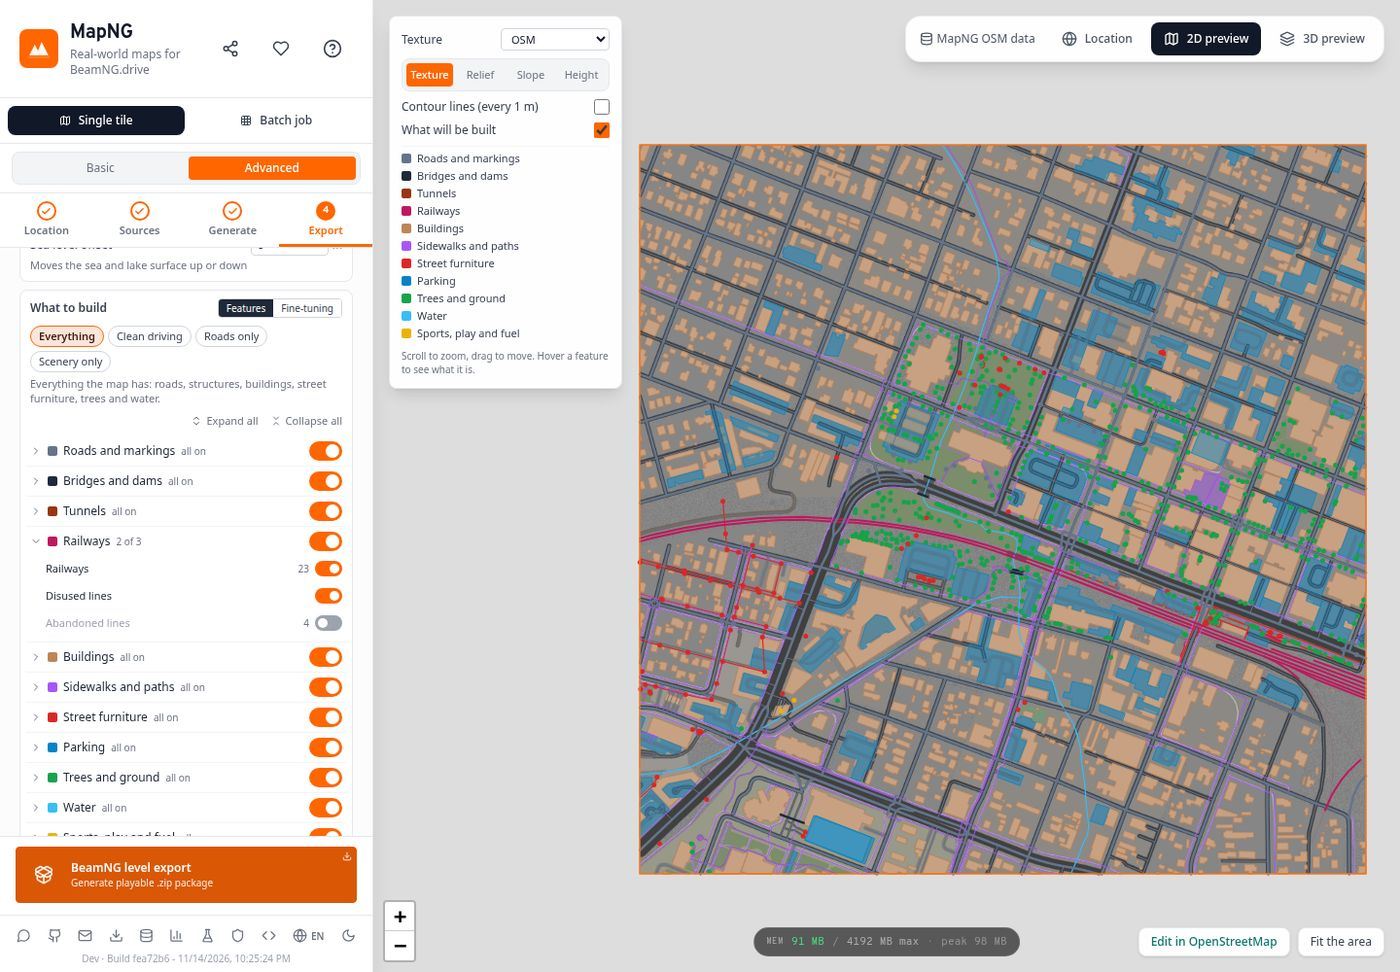
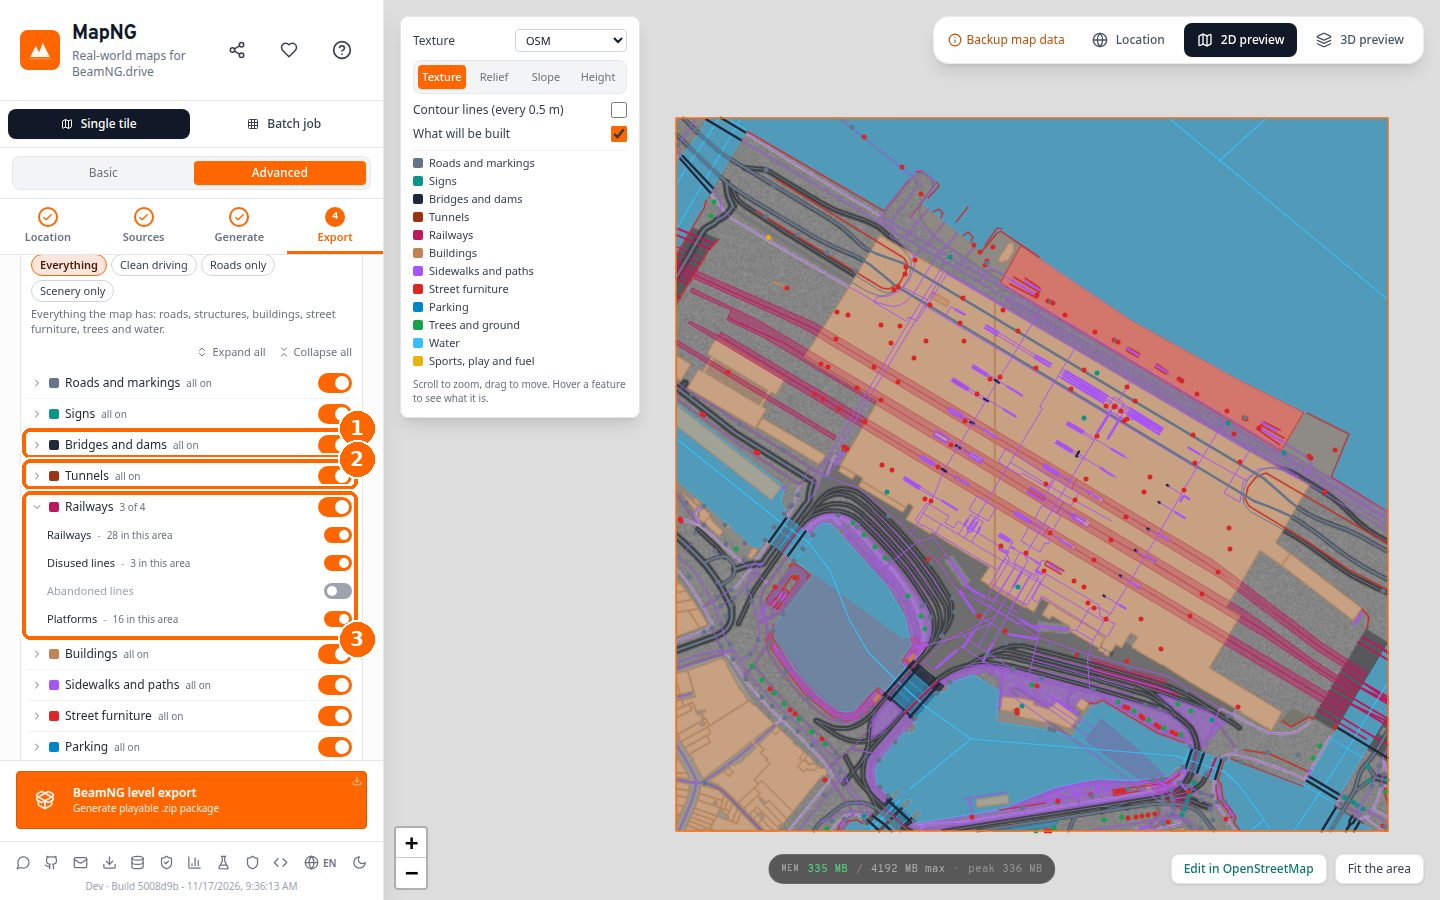
0.3.3: version, and the update page's screenshots retaken with numbered callouts

diff --git a/public/updates/0.3.3/index.html b/public/updates/0.3.3/index.html
@@ -181,7 +181,8 @@
     <div class="kicker">The map</div>
     <h2>MapNG draws its own street map</h2>
     <p>The street map behind the selection box is now MapNG's own: OpenStreetMap data, kept in MapNG's storage and drawn in your browser. It replaces both the OpenStreetMap tile layer and the old dark map, so the map no longer leans on OpenStreetMap's public tile servers, which are not meant for an app this busy.</p>
-    <figure><img src="images/street-map.jpg" alt="The MapNG window twice, in light and in dark mode, each showing a street map of London around Tower Bridge with the Map layers box open" loading="lazy"><figcaption>The street map in light and in dark mode. With no style chosen it follows the app.</figcaption></figure>
+    <figure><img src="images/street-map.jpg" alt="The MapNG window with a street map of London around Tower Bridge and the Map layers box open. Two numbered outlines: 1 the Street map layer, 2 a row of five style switches under it" loading="lazy"><figcaption><b>1</b> The street map is the first layer. <b>2</b> Its five styles; with none chosen it follows the app's light or dark mode.</figcaption></figure>
+    <figure><img src="images/street-map-dark.jpg" alt="The same window in dark mode, with the map in its dark style" loading="lazy"><figcaption>In dark mode.</figcaption></figure>
     <p>It comes in five styles, as switches under the layer: light, dark, white, greyscale and black. If you had the OpenStreetMap layer or the dark map selected, MapNG moves you to the street map (in its dark style, for the dark map).</p>
     <figure><img src="images/street-styles.jpg" alt="Three views of the same map in the white, greyscale and black styles" loading="lazy"><figcaption>The white, greyscale and black styles.</figcaption></figure>
     <p>Also: the location search now runs when you press Enter, not while you type, as the search service asks of its users.</p>
@@ -191,9 +192,9 @@
     <div class="kicker">The app</div>
     <h2>The export says when it is done, and where the file went</h2>
     <p>The progress window now stays open when a level is finished. It shows the file's name and where it was saved: your BeamNG mods folder in the desktop app, the folder you picked in the browser's save window, or the browser's downloads folder. You close it yourself.</p>
-    <figure><img src="images/export-done.jpg" alt="The MapNG window with a card titled Export complete, the saved file&#x27;s name, where it was saved and a Close button" loading="lazy"><figcaption>The done window on the website.</figcaption></figure>
+    <figure><img src="images/export-done.jpg" alt="The MapNG window with a card titled Export complete. Two numbered outlines: 1 the saved file&#x27;s name and where it went, 2 the Download and Close buttons" loading="lazy"><figcaption><b>1</b> The file's name and where it was saved. <b>2</b> Download (in a browser without a save window) and Close.</figcaption></figure>
     <p><b>What to build</b> has new groups of its own for bridges, tunnels and railways, each with its own switches.</p>
-    <figure><img src="images/what-to-build.jpg" alt="The What to build list with groups for roads, bridges and dams, tunnels and railways; the railways group is open with switches for railways, disused lines and abandoned lines" loading="lazy"><figcaption>Railways open in What to build: disused lines are built, abandoned ones are off unless you switch them on.</figcaption></figure>
+    <figure><img src="images/what-to-build.jpg" alt="The What to build list beside a 2D preview of a large railway station. Three numbered outlines: 1 Bridges and dams, 2 Tunnels, 3 the Railways group, open, with switches for railways, disused lines, abandoned lines and platforms" loading="lazy"><figcaption><b>1</b> Bridges and dams, <b>2</b> tunnels and <b>3</b> railways each have a group. Here railways is open: disused lines and platforms are built, abandoned lines are off unless you switch them on.</figcaption></figure>
   </section>
 
   <section id="quays" data-nav="Quay walls">
